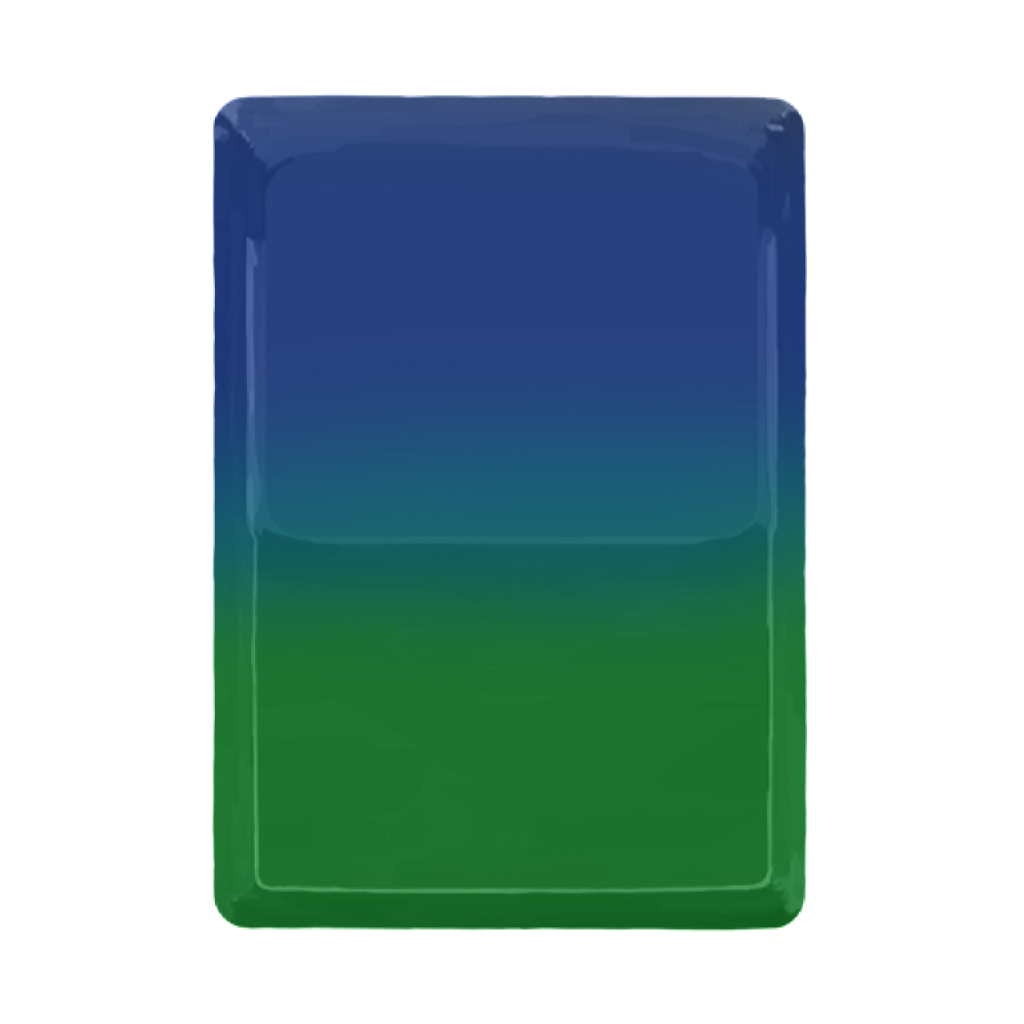
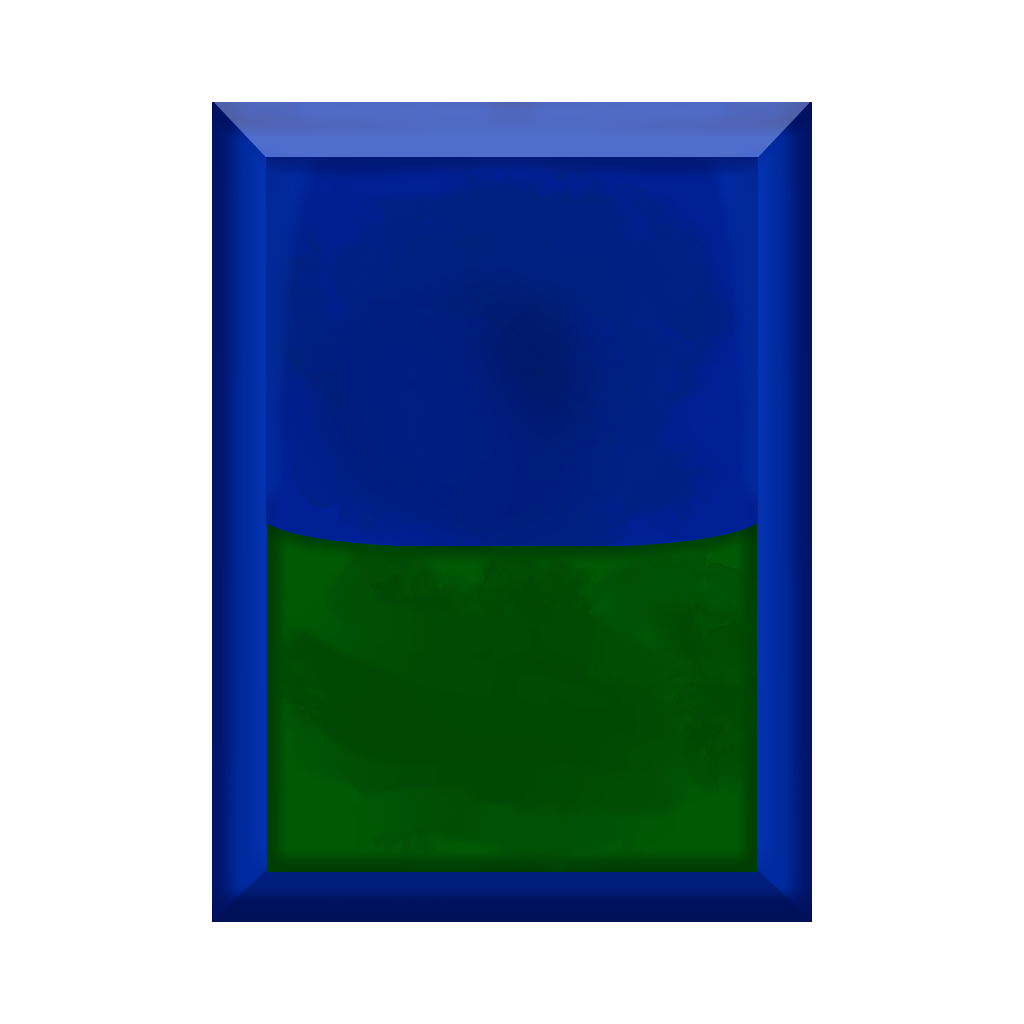
New card frames and skillfull dodge art

diff --git a/src/main/java/theextravagant/cards/SkillfullDodge.java b/src/main/java/theextravagant/cards/SkillfullDodge.java
@@ -15,7 +15,7 @@ public class SkillfullDodge extends CustomCard {
 
     public static final String ID = theextravagant.makeID("SkillfullDodge");
     private static final CardStrings cardStrings = CardCrawlGame.languagePack.getCardStrings(ID);
-    public static final String IMG = theextravagant.makeCardPath("SkillfullDodge.png");
+    public static final String IMG = theextravagant.makeCardPath("SkillfullDodgenew.png");
     public static final String NAME = cardStrings.NAME;
     public static final String DESCRIPTION = cardStrings.DESCRIPTION;
     private static final CardRarity RARITY = CardRarity.UNCOMMON;
